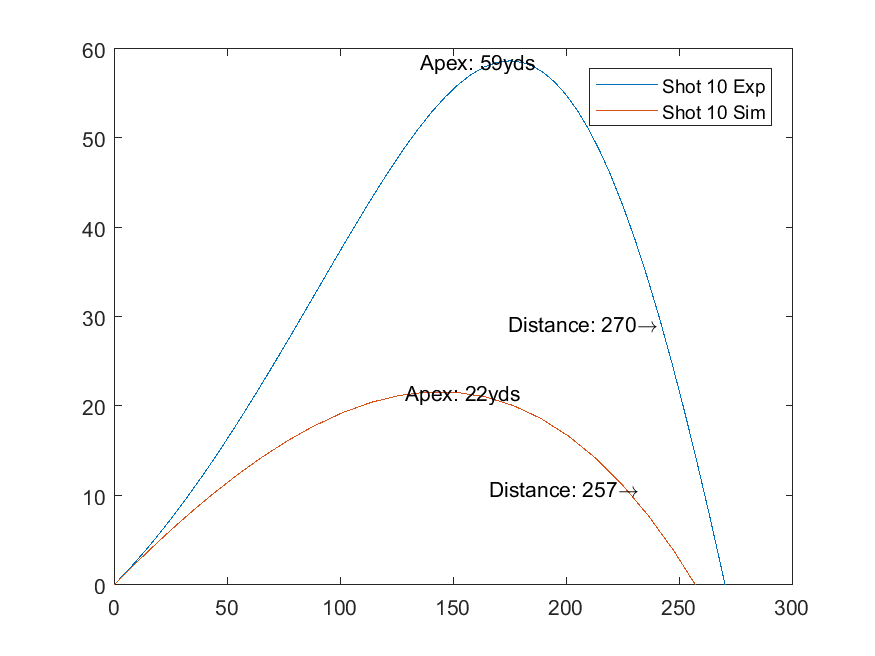
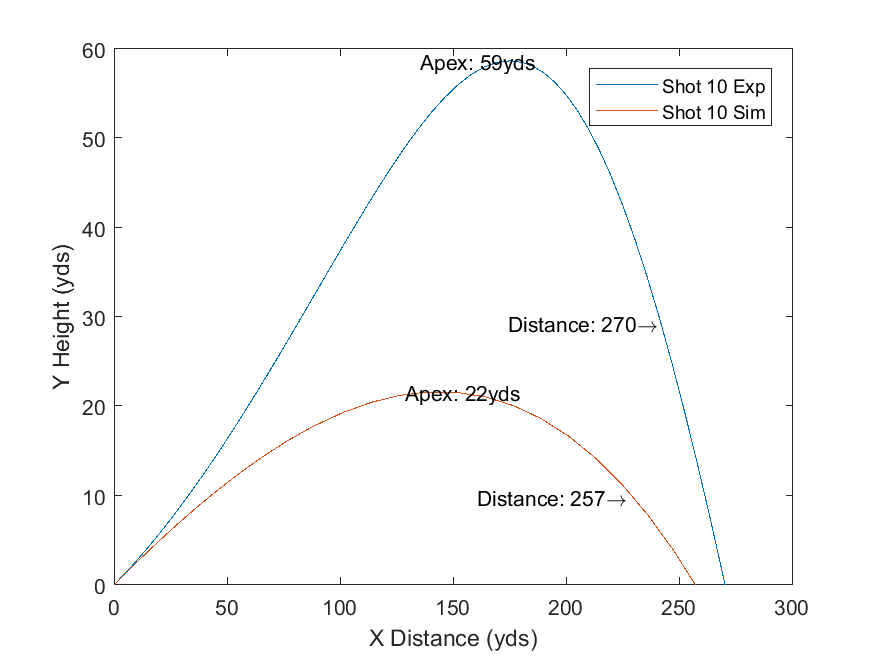
Fixed labels for part 3

Changed region(s): [[0.432, 0.9451, 0.6171, 1.0], [0.5554, 0.7317, 0.7406, 0.7927], [0.0617, 0.3659, 0.0926, 0.5793]]

diff --git a/Lab1/lab1.m b/Lab1/lab1.m
@@ -121,8 +121,10 @@ for shotID = 1:size(lab1data, 1)
     %txt = {'Plotted Data:','y = sin(x)'};
     text(carry(shotID)/2,apexes(shotID),txt)
     txt = [ 'Distance: ', int2str(carry(shotID)), '\rightarrow'];
-    text(carry(shotID)/1.55, apexes(shotID)/2,txt); 
-    legend('show'); 
+    text(carry(shotID)/1.6, apexes(shotID)/2.2,txt); 
+    legend('show');
+    xlabel('X Distance (yds)'); 
+    ylabel('Y Height (yds)');
     
     saveas(gcf, ['part3_sim_exp_', int2str(shotID),'.png']); 
 end
